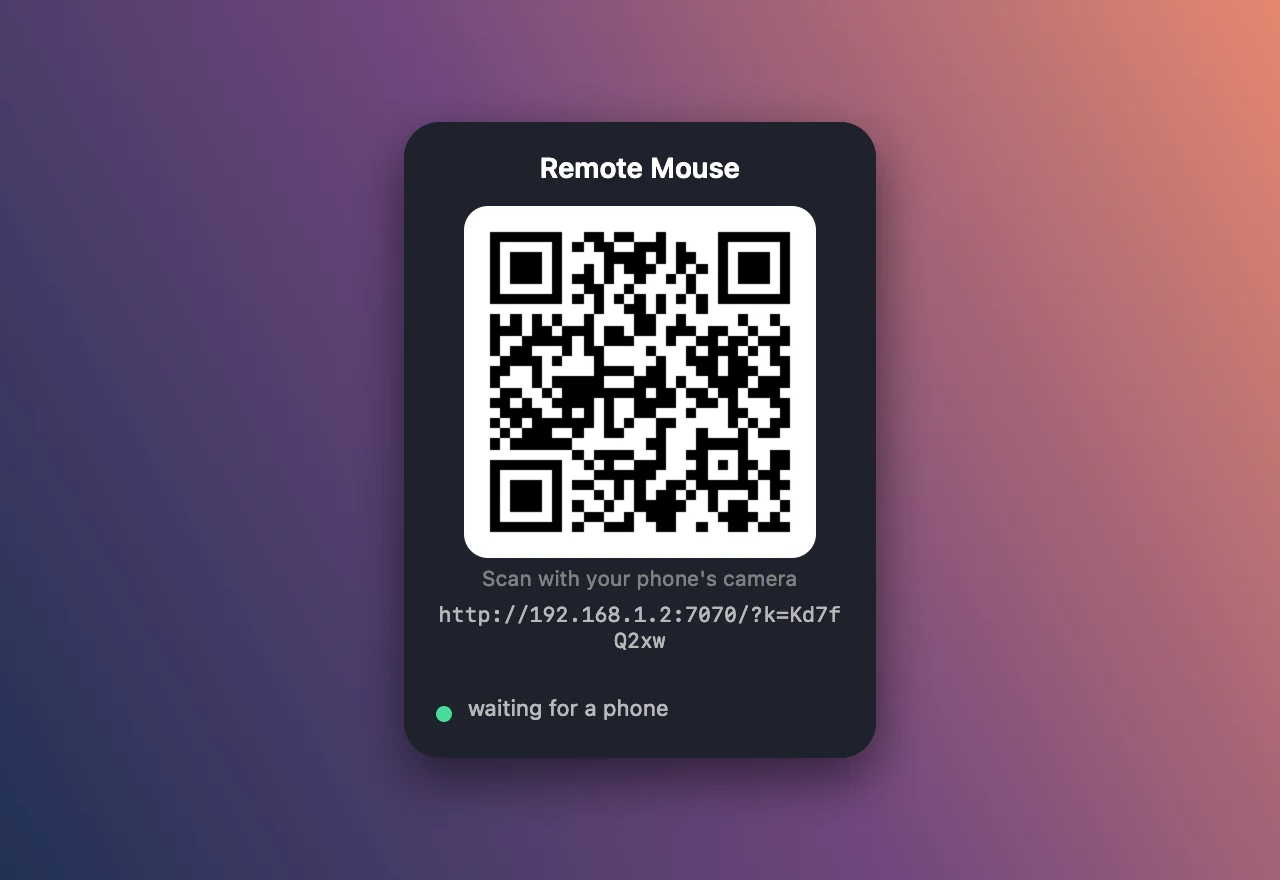
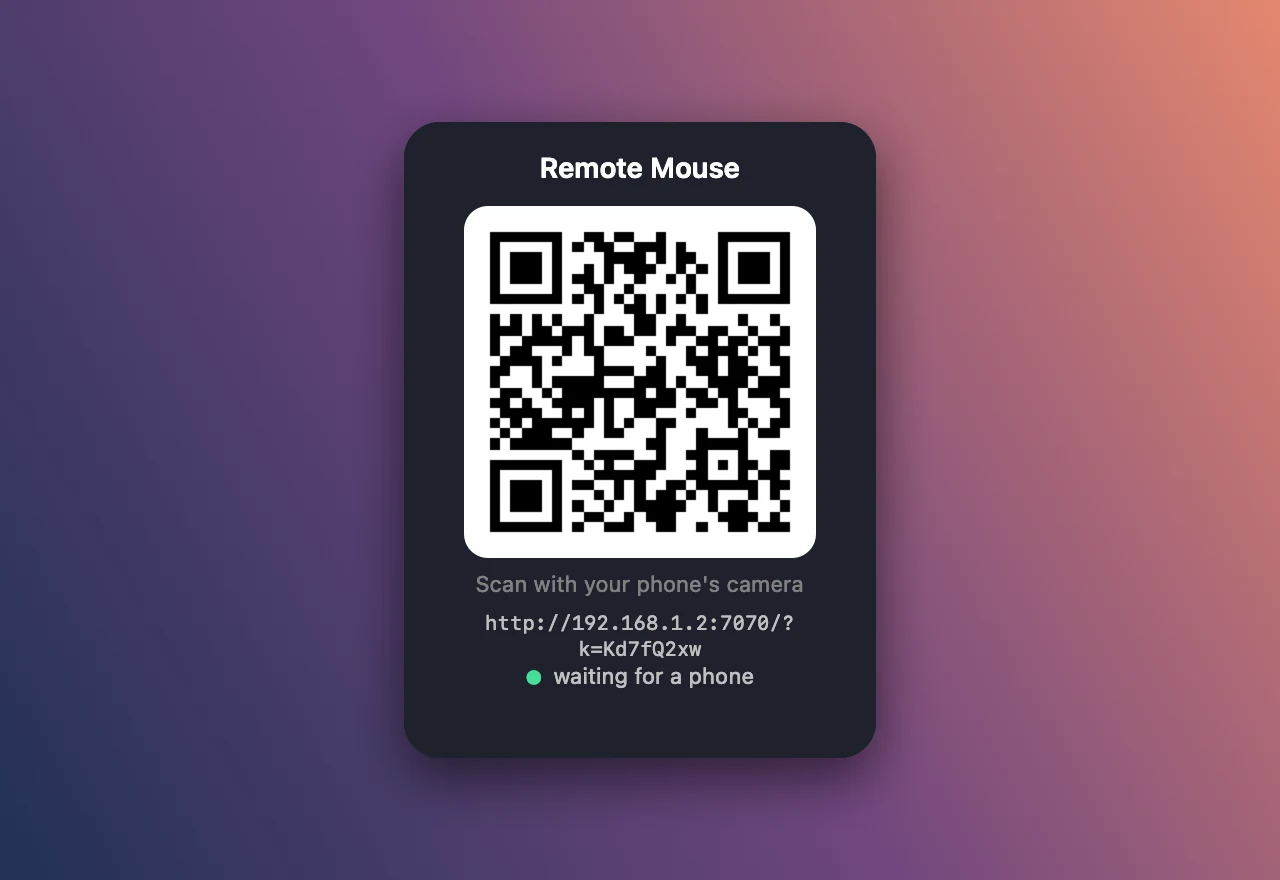
Native-looking QR card in the menu; keep the link token unbroken when wrapping
The menu version drops the dark card background and title, uses system
label colours for light and dark menus, is wide enough for the link on one
line, and centres the status. Desktop widget keeps its card look.

Claude-Session: https://claude.ai/code/session_01KdTsCedXCUpk6c1knaU5Fx

Changed region(s): [[0.3438, 0.6443, 0.6562, 0.8284]]

diff --git a/app/Sources/Widget.swift b/app/Sources/Widget.swift
@@ -17,27 +17,33 @@ enum QR {
     }
 }
 
-/// Shared card layout used both inside the menu and in the desktop widget.
+/// QR + link + status. Two looks: a dark card for the desktop widget, and a flat native layout for the menu.
 final class QRCard: NSView {
+    enum Style { case desktop, menu }
+    static let desktopSize = NSSize(width: 236, height: 318)
+    static let menuSize = NSSize(width: 280, height: 248)
+
+    let style: Style
     private let title = NSTextField(labelWithString: "Remote Mouse")
     private let qrBox = NSView()
     private let qr = NSImageView()
-    private let urlLabel = NSTextField(wrappingLabelWithString: "")
-    private let dot = NSView()
-    private let status = NSTextField(labelWithString: "")
     private let hint = NSTextField(labelWithString: "Scan with your phone's camera")
+    private let urlLabel = NSTextField(wrappingLabelWithString: "")
+    private let status = NSTextField(labelWithString: "")
 
-    static let size = NSSize(width: 236, height: 318)
-
-    override init(frame: NSRect) {
-        super.init(frame: frame)
+    init(style: Style) {
+        self.style = style
+        super.init(frame: NSRect(origin: .zero, size: style == .desktop ? QRCard.desktopSize : QRCard.menuSize))
         wantsLayer = true
-        layer?.cornerRadius = 18
-        layer?.backgroundColor = NSColor(calibratedRed: 0.09, green: 0.10, blue: 0.13, alpha: 0.96).cgColor
-
+        let dark = style == .desktop
+        if dark {
+            layer?.cornerRadius = 18
+            layer?.backgroundColor = NSColor(calibratedRed: 0.09, green: 0.10, blue: 0.13, alpha: 0.96).cgColor
+        }
         title.font = .systemFont(ofSize: 14, weight: .semibold)
         title.textColor = .white
         title.alignment = .center
+        title.isHidden = !dark
 
         qrBox.wantsLayer = true
         qrBox.layer?.backgroundColor = NSColor.white.cgColor
@@ -45,45 +51,60 @@ final class QRCard: NSView {
         qr.imageScaling = .scaleProportionallyUpOrDown
         qrBox.addSubview(qr)
 
-        urlLabel.font = .monospacedSystemFont(ofSize: 10.5, weight: .regular)
-        urlLabel.textColor = NSColor(white: 0.72, alpha: 1)
-        urlLabel.alignment = .center
-        urlLabel.maximumNumberOfLines = 2
-        urlLabel.lineBreakMode = .byCharWrapping
-
-        dot.wantsLayer = true
-        dot.layer?.cornerRadius = 4
-        status.font = .systemFont(ofSize: 11)
-        status.textColor = NSColor(white: 0.72, alpha: 1)
-        status.lineBreakMode = .byTruncatingTail
-
-        hint.font = .systemFont(ofSize: 10.5)
-        hint.textColor = NSColor(white: 0.5, alpha: 1)
+        hint.font = .systemFont(ofSize: 11)
+        hint.textColor = dark ? NSColor(white: 0.5, alpha: 1) : .secondaryLabelColor
         hint.alignment = .center
 
-        [title, qrBox, urlLabel, dot, status, hint].forEach(addSubview)
+        urlLabel.font = .monospacedSystemFont(ofSize: 10, weight: .regular)
+        urlLabel.textColor = dark ? NSColor(white: 0.75, alpha: 1) : .labelColor
+        urlLabel.alignment = .center
+        urlLabel.maximumNumberOfLines = 2
+        urlLabel.lineBreakMode = .byWordWrapping
+        urlLabel.isSelectable = false
+
+        status.alignment = .center
+        status.lineBreakMode = .byTruncatingTail
+
+        [title, qrBox, hint, urlLabel, status].forEach(addSubview)
         layoutViews()
+        applyAppearance()
     }
     required init?(coder: NSCoder) { fatalError() }
 
     private func layoutViews() {
         let w = bounds.width
-        title.frame = NSRect(x: 12, y: bounds.height - 34, width: w - 24, height: 20)
-        let box: CGFloat = 176
-        qrBox.frame = NSRect(x: (w - box) / 2, y: bounds.height - 34 - 8 - box, width: box, height: box)
+        if style == .desktop {
+            title.frame = NSRect(x: 12, y: bounds.height - 34, width: w - 24, height: 20)
+            qrBox.frame = NSRect(x: (w - 176) / 2, y: bounds.height - 34 - 8 - 176, width: 176, height: 176)
+        } else {
+            qrBox.frame = NSRect(x: (w - 168) / 2, y: bounds.height - 10 - 168, width: 168, height: 168)
+        }
         qr.frame = qrBox.bounds.insetBy(dx: 8, dy: 8)
-        hint.frame = NSRect(x: 12, y: qrBox.frame.minY - 20, width: w - 24, height: 16)
-        urlLabel.frame = NSRect(x: 12, y: hint.frame.minY - 32, width: w - 24, height: 30)
-        dot.frame = NSRect(x: 16, y: 18, width: 8, height: 8)
-        status.frame = NSRect(x: 30, y: 12, width: w - 42, height: 20)
+        hint.frame = NSRect(x: 12, y: qrBox.frame.minY - 22, width: w - 24, height: 16)
+        urlLabel.frame = NSRect(x: 12, y: hint.frame.minY - 32, width: w - 24, height: 28)
+        status.frame = NSRect(x: 12, y: urlLabel.frame.minY - 16, width: w - 24, height: 18)
+    }
+
+    override func viewDidChangeEffectiveAppearance() { applyAppearance() }
+    private func applyAppearance() {
+        guard style == .menu else { return }
+        effectiveAppearance.performAsCurrentDrawingAppearance {      // resolve dynamic colors for the layer
+            qrBox.layer?.borderWidth = 1
+            qrBox.layer?.borderColor = NSColor.separatorColor.cgColor
+        }
     }
 
     func update(url: String, statusText: String, ok: Bool) {
-        qr.image = QR.image(url, size: 160)
-        urlLabel.stringValue = url
-        status.stringValue = statusText
-        dot.layer?.backgroundColor = (ok ? NSColor(calibratedRed: 0.24, green: 0.86, blue: 0.52, alpha: 1)
-                                         : NSColor(calibratedRed: 1, green: 0.36, blue: 0.36, alpha: 1)).cgColor
+        qr.image = QR.image(url, size: qr.bounds.width)
+        // zero-width space before the token: if the link has to wrap, it wraps there instead of mid-token
+        urlLabel.stringValue = url.replacingOccurrences(of: "?k=", with: "\u{200B}?k=")
+        let para = NSMutableParagraphStyle(); para.alignment = .center
+        let dot = ok ? NSColor(calibratedRed: 0.24, green: 0.86, blue: 0.52, alpha: 1)
+                     : NSColor(calibratedRed: 1, green: 0.36, blue: 0.36, alpha: 1)
+        let textColor: NSColor = style == .desktop ? NSColor(white: 0.75, alpha: 1) : .secondaryLabelColor
+        let s = NSMutableAttributedString(string: "\u{25CF}  ", attributes: [.foregroundColor: dot, .font: NSFont.systemFont(ofSize: 9), .paragraphStyle: para])
+        s.append(NSAttributedString(string: statusText, attributes: [.foregroundColor: textColor, .font: NSFont.systemFont(ofSize: 11), .paragraphStyle: para]))
+        status.attributedStringValue = s
     }
 
     // dragging the card moves the widget window
@@ -92,10 +113,10 @@ final class QRCard: NSView {
 
 /// Borderless panel pinned just above the desktop icons: visible on the desktop, under every normal window.
 final class WidgetWindow: NSPanel {
-    let card = QRCard(frame: NSRect(origin: .zero, size: QRCard.size))
+    let card = QRCard(style: .desktop)
 
     init() {
-        super.init(contentRect: NSRect(origin: .zero, size: QRCard.size),
+        super.init(contentRect: NSRect(origin: .zero, size: QRCard.desktopSize),
                    styleMask: [.borderless, .nonactivatingPanel], backing: .buffered, defer: false)
         contentView = card
         isOpaque = false
@@ -111,7 +132,7 @@ final class WidgetWindow: NSPanel {
         setFrameAutosaveName("QRWidget")
         if !hadFrame, let s = NSScreen.main {
             let v = s.visibleFrame
-            setFrameOrigin(NSPoint(x: v.maxX - QRCard.size.width - 28, y: v.maxY - QRCard.size.height - 28))
+            setFrameOrigin(NSPoint(x: v.maxX - QRCard.desktopSize.width - 28, y: v.maxY - QRCard.desktopSize.height - 28))
         }
     }
     override var canBecomeKey: Bool { false }

diff --git a/app/Sources/AppDelegate.swift b/app/Sources/AppDelegate.swift
@@ -8,7 +8,7 @@ final class AppDelegate: NSObject, NSApplicationDelegate, NSMenuDelegate {
     private var server: RemoteServer!
     private var statusItem: NSStatusItem!
     private let menu = NSMenu()
-    private let menuCard = QRCard(frame: NSRect(origin: .zero, size: QRCard.size))
+    private let menuCard = QRCard(style: .menu)
     private var widget: WidgetWindow?
     private var timer: Timer?
     private var currentIP = ""
